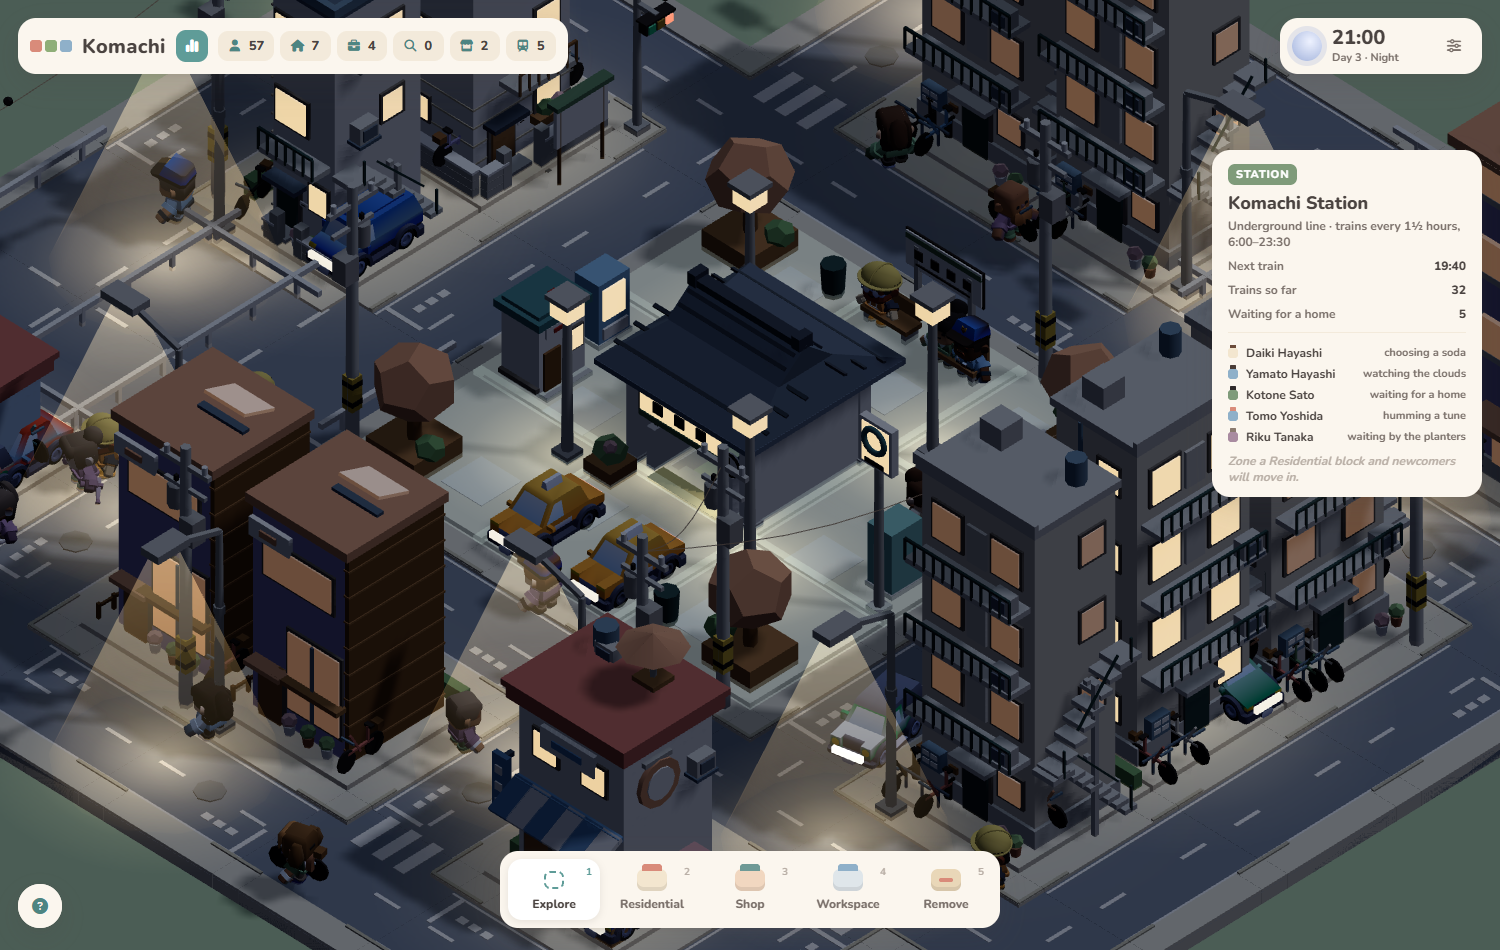
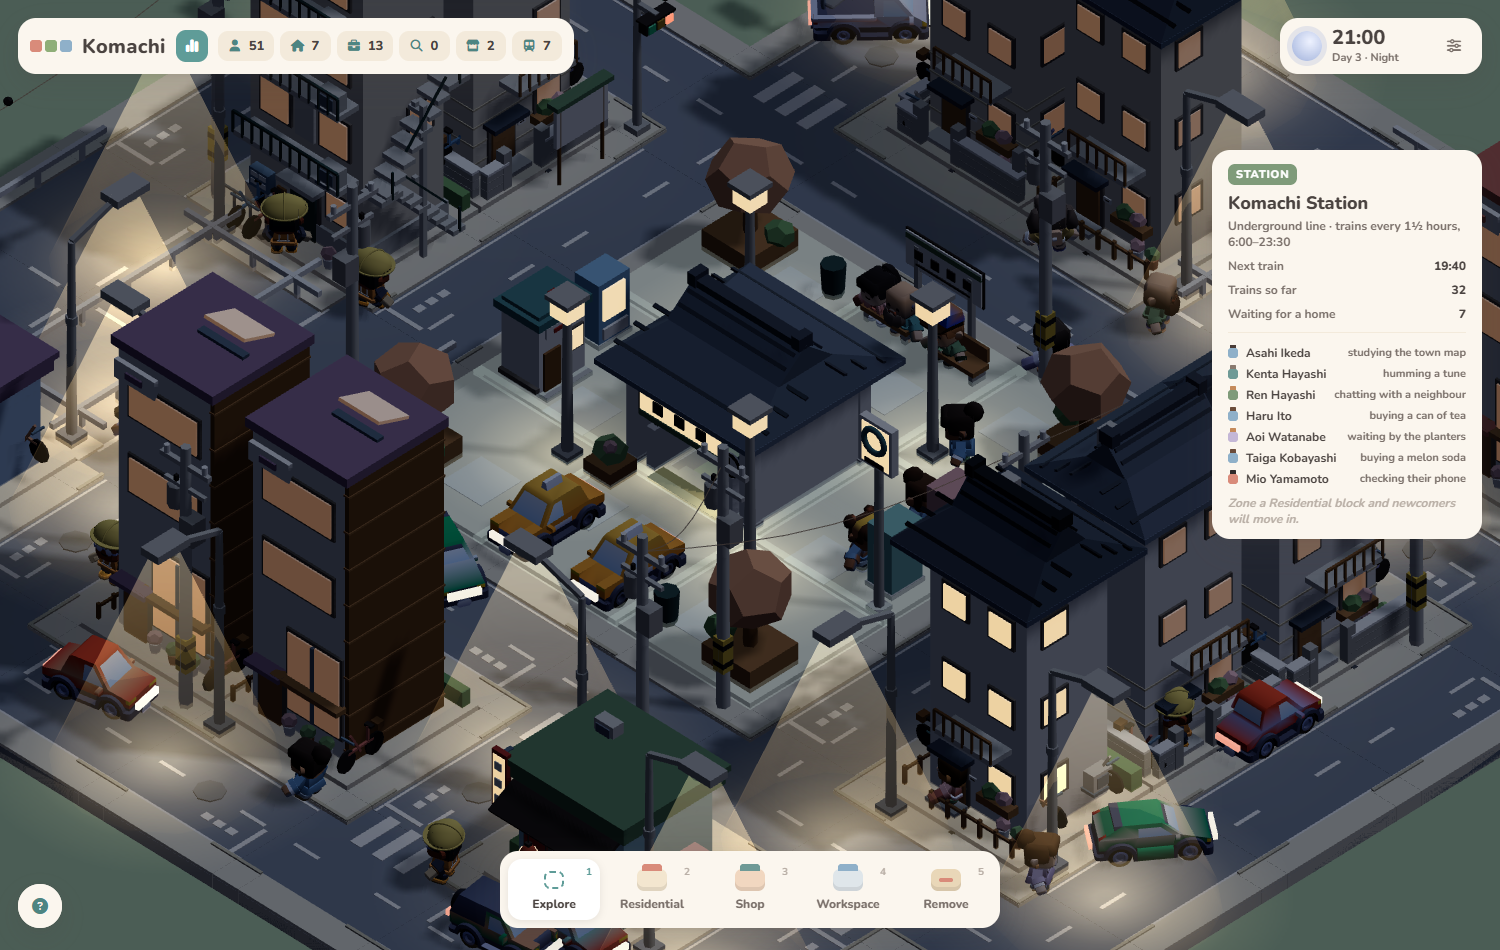
fix the street lamp that goes missing suddenly

diff --git a/src/world.js b/src/world.js
@@ -325,8 +325,12 @@ function rebuildRoads() {
       }
     }
     let byStation = false; for (let dj = -1; dj <= 1 && !byStation; dj++) for (let di = -1; di <= 1 && !byStation; di++) { const n = cell(c.i + di, c.j + dj); if (n && n.type === 'lot' && n.block && n.block.type === 'station') byStation = true; }   // the whole ring road around the plaza
-    if (h > 0.62 && lotAdjacent4(c) && !byStation) {   // the plaza has its own lamps; none on the ring road around it
-      const d = DIR4.find(([di, dj]) => { const n = cell(c.i + di, c.j + dj); return n && n.type === 'lot'; });
+    // a lamp wherever a street passes a building (most cells), and every third cell along any other street, so ring
+    // roads, avenues, the coast road and hill streets are lit too; the plaza has its own lamps, bridges and slopes none
+    const lampHere = !byStation && !c.bridge && !c.ramp && ((h > 0.5 && lotAdjacent4(c)) || ((c.i * 2 + c.j) % 3 === 0 && deg <= 2 && !isDbl));
+    if (lampHere) {
+      const d = DIR4.find(([di, dj]) => { const n = cell(c.i + di, c.j + dj); return n && n.type === 'lot'; }) || DIR4.find(([di, dj]) => { const n = cell(c.i + di, c.j + dj); return n && n.type !== 'road' && n.type !== 'water' && n.type !== 'canal'; }) || DIR4.find(([di, dj]) => { const n = cell(c.i + di, c.j + dj); return n && n.type !== 'road'; });
+      if (!d) { /* a street with roads on all four sides: no kerb to stand on */ } else {
       // street lamp: a pole on the sidewalk corner, an arm reaching over the road, a housing lit from
       // underneath, a soft beam fading to the ground, and a pool of light on the asphalt
       const px = x + d[0] * 0.4 + d[1] * 0.35, pz = z + d[1] * 0.4 - d[0] * 0.35;
@@ -340,6 +344,7 @@ function rebuildRoads() {
       const head = new THREE.Mesh(new THREE.BoxGeometry(0.1, 0.015, 0.2), lampHeadMat); head.rotation.y = ry; head.position.set(hx, hy - 0.03, hz); head.castShadow = false; scene.add(head); lampHeads.push(head);
       cones.push(lightCone(hx, hy - 0.03, hz, 0.07, 0.62, PAL.lampGlow));
       const gl = makeGlow(hx, 0.125, hz, 2.0); gl.material = lampGlowMat; scene.add(gl); lampGlows.push(gl);
+      }
     }
     if (gy) {   // lift everything this cell added to its terrace
       for (let k = g0; k < g.length; k++) g[k].translate(0, gy, 0);

diff --git a/CHANGELOG.md b/CHANGELOG.md
@@ -154,6 +154,8 @@ Phases 4 and 4.5 plus the polish that went with them.
 
 ### Fixed
 
+- Street lamps stand along every street: on most cells that pass a building and every third cell elsewhere,
+  so ring roads, avenues, the coast road and hill streets are lit at night (they used to be dark)
 - Parked cars no longer overlap their homes: a car waits at the kerb of the street in front, half on the
   pavement with the home on the driver's left, two bays per street cell; bikes still park on the plot
 - Every hill now has both island slope roads: when the middle terrace was only one cell deep, the lower ramp
